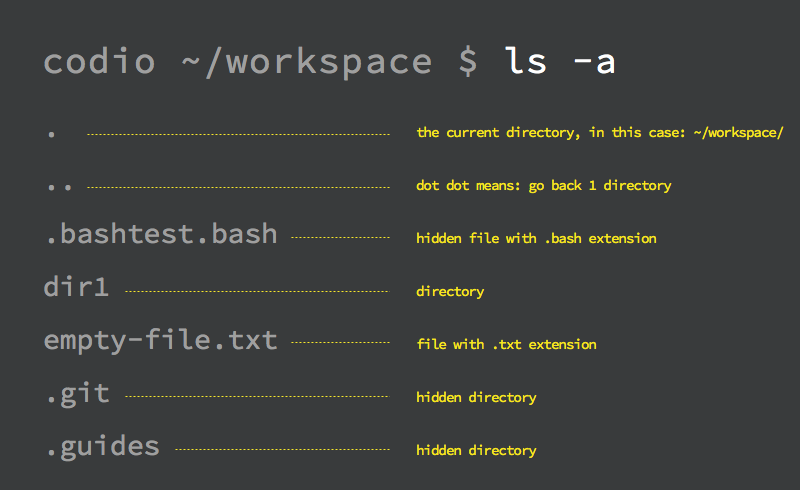
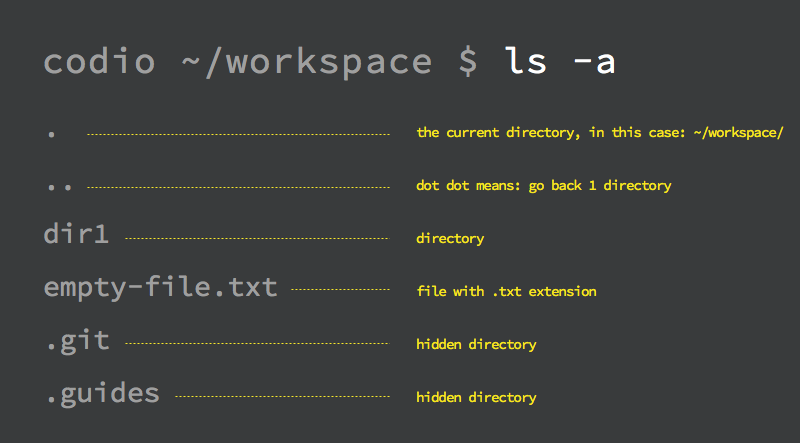
Removed .bashtest.bash from workspace folder

diff --git a/.guides/content/Command-options-ada6.md b/.guides/content/Command-options-ada6.md
@@ -8,7 +8,7 @@ After executing the `ls -a` command, we've gotten a larger output:
 
 ```
 codio ~/workspace $ ls -a
-.  ..  .bashtest.bash  dir1  empty-file.txt  .git  .guides
+.  ..   dir1  empty-file.txt  .git  .guides
 ```
 
 Can you recognize the hidden V.S. the normal files and folders?
